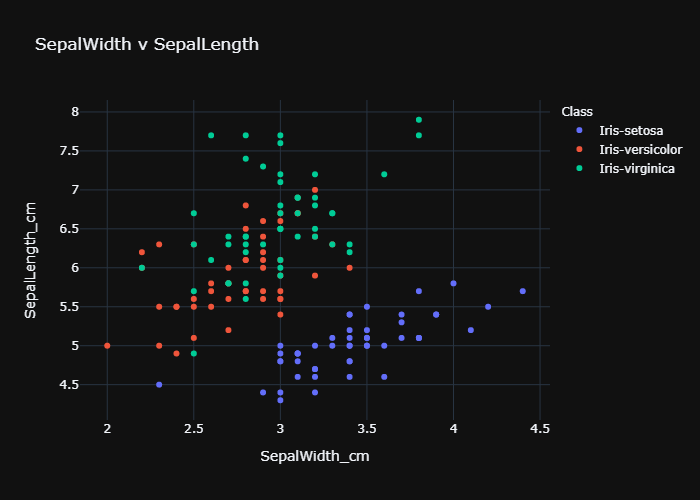
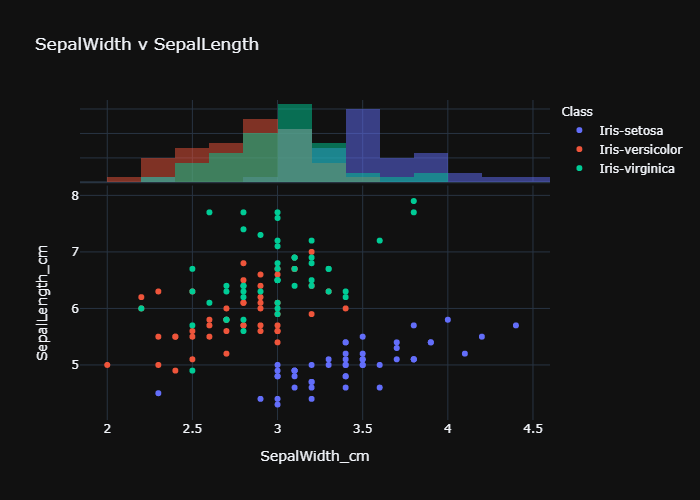
added histograms to scatterplots to show distribution between species, updated README file

diff --git a/scatterPlots.py b/scatterPlots.py
@@ -17,20 +17,20 @@ from uploadDataSet import data # importing data
 # using newly imported Plotly library. Setting properties of scatterplot and saving outputs to separate .png files.
 
 fig = px.scatter(data, x='SepalWidth_cm', y='SepalLength_cm', color='Class', 
-            template='plotly_dark', title = 'SepalWidth v SepalLength') 
+            template='plotly_dark', title = 'SepalWidth v SepalLength', marginal_x = 'histogram') 
 fig.write_image('scatPlotSWSL.png')
 
 
 fig = px.scatter(data, x='PetalLength_cm', y='SepalWidth_cm', color='Class',
-           template='plotly_dark', title = 'PetalLength v SepalWidth')
+           template='plotly_dark', title = 'PetalLength v SepalWidth', marginal_x = 'histogram')
 fig.write_image('scatPlotPLSW.png')
 
 fig = px.scatter(data, x='PetalLength_cm', y='PetalWidth_cm', color='Class',
-            template='plotly_dark', title = 'PetalLength v PetalWidth')
+            template='plotly_dark', title = 'PetalLength v PetalWidth', marginal_y = 'histogram')
 fig.write_image('scatPlotPLPW.png')
 
 fig = px.scatter(data, x='SepalLength_cm', y='PetalLength_cm', color='Class',
-            template='plotly_dark', title = 'SepalLength v PetalLength')
+            template='plotly_dark', title = 'SepalLength v PetalLength', marginal_x = 'histogram')
 fig.write_image('scatPlotSLPL.png')
 
 fig = px.scatter(data, x='SepalLength_cm', y='PetalWidth_cm', color='Class',

diff --git a/README.md b/README.md
@@ -300,20 +300,21 @@ The next step in our project is to be able to visualise each pair of variables t
 # using newly imported Plotly library. Setting properties of scatterplot and saving outputs to separate 
 # .png files.
 
-fig = px.scatter(data, x='SepalWidth_cm', y='SepalLength_cm', color='Class',  # 'class' will be our legend 
-            template='plotly_dark', title = 'SepalWidth v SepalLength') # using a dark theme
+fig = px.scatter(data, x='SepalWidth_cm', y='SepalLength_cm', color='Class', 
+            template='plotly_dark', title = 'SepalWidth v SepalLength', marginal_x = 'histogram') 
 fig.write_image('scatPlotSWSL.png')
 
+
 fig = px.scatter(data, x='PetalLength_cm', y='SepalWidth_cm', color='Class',
-           template='plotly_dark', title = 'PetalLength v SepalWidth')
+           template='plotly_dark', title = 'PetalLength v SepalWidth', marginal_x = 'histogram')
 fig.write_image('scatPlotPLSW.png')
 
 fig = px.scatter(data, x='PetalLength_cm', y='PetalWidth_cm', color='Class',
-            template='plotly_dark', title = 'PetalLength v PetalWidth')
+            template='plotly_dark', title = 'PetalLength v PetalWidth', marginal_y = 'histogram')
 fig.write_image('scatPlotPLPW.png')
 
 fig = px.scatter(data, x='SepalLength_cm', y='PetalLength_cm', color='Class',
-            template='plotly_dark', title = 'SepalLength v PetalLength')
+            template='plotly_dark', title = 'SepalLength v PetalLength', marginal_x = 'histogram')
 fig.write_image('scatPlotSLPL.png')
 
 fig = px.scatter(data, x='SepalLength_cm', y='PetalWidth_cm', color='Class',
